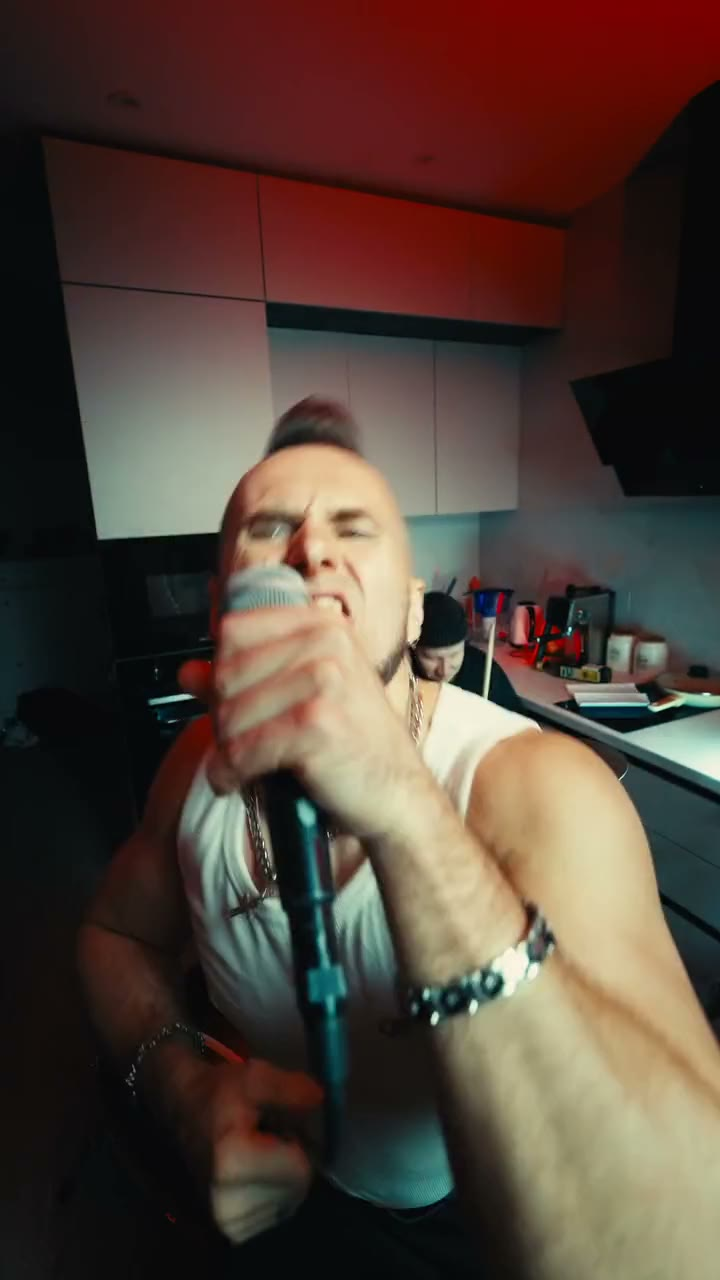
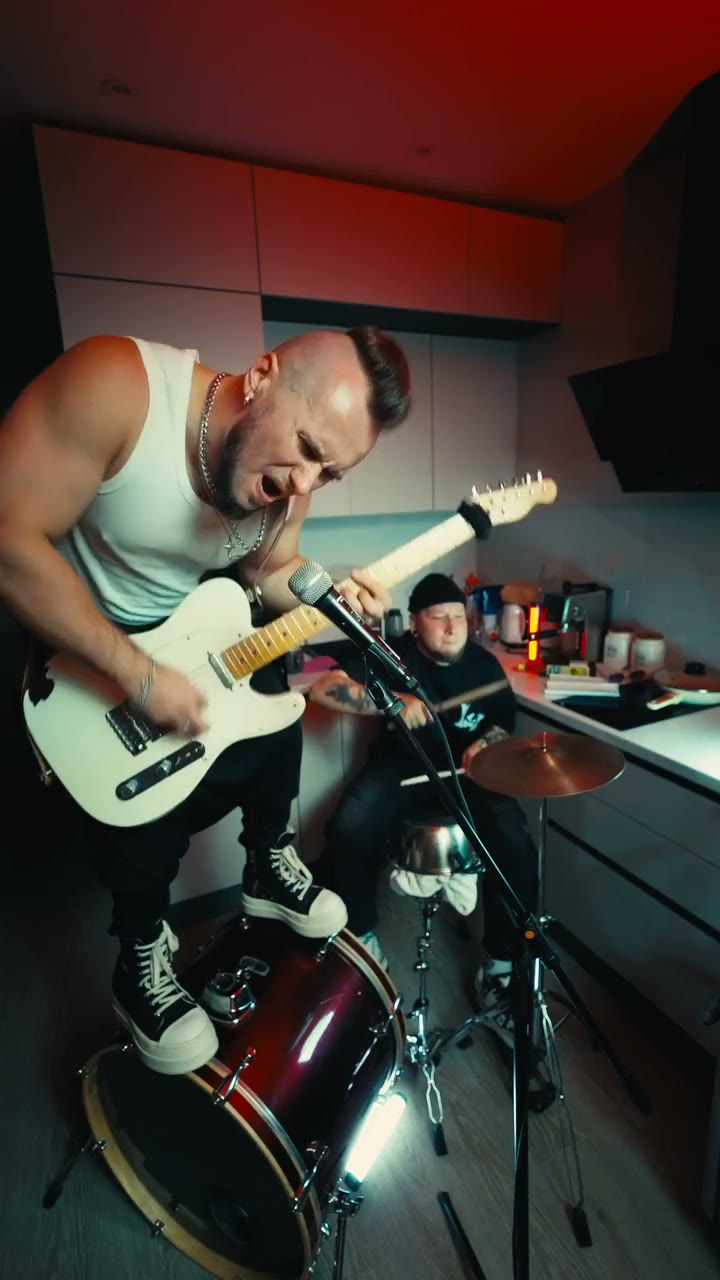
MAIN - updated video menu

diff --git a/main.js b/main.js
@@ -20,17 +20,21 @@ document.querySelectorAll('[data-scroll-to]').forEach((link) => {
   });
 });
 
-// Липкое меню: подсвечиваем раздел, который сейчас посередине экрана
+// Липкое меню: подсвечиваем раздел, который сейчас посередине экрана.
+// «Видео» (#reels) лежит внутри «Музыки» (#listen) — если посередине оба, горит тот, что правее в меню.
 if ('IntersectionObserver' in window) {
   const links = {};
   document.querySelectorAll('.nav__link').forEach((link) => {
     links[link.getAttribute('href').slice(1)] = link;
   });
+  const visible = new Set();
   const spy = new IntersectionObserver((entries) => {
     entries.forEach((entry) => {
-      const link = links[entry.target.id];
-      if (link) link.classList.toggle('is-active', entry.isIntersecting);
+      if (entry.isIntersecting) visible.add(entry.target.id);
+      else visible.delete(entry.target.id);
     });
+    const current = Object.keys(links).filter((id) => visible.has(id)).pop();
+    Object.keys(links).forEach((id) => links[id].classList.toggle('is-active', id === current));
   }, { rootMargin: '-50% 0px -50% 0px' });
   Object.keys(links).forEach((id) => {
     const section = document.getElementById(id);

diff --git a/index.html b/index.html
@@ -48,6 +48,7 @@
   <nav class="nav" aria-label="Разделы">
     <div class="nav__in">
       <a class="nav__link" href="#listen">Музыка</a>
+      <a class="nav__link" href="#reels">Видео</a>
       <a class="nav__link" href="#live">Live</a>
       <a class="nav__link" href="#diary">Дневник</a>
       <a class="nav__link" href="#about">Обо мне</a>
@@ -102,7 +103,7 @@
       </div>
 
       <!-- Видео к песням: вертикальные, как в телефоне. Новый ролик — ещё одна .reel в .reels__row -->
-      <div class="reels">
+      <div id="reels" class="reels">
         <div class="reels__head reveal">
           <h2 class="reels__title">Смотреть</h2>
           <p class="reels__sub">Короткие видео к песням — посмотри и слушай целиком на своём стриминге.</p>

diff --git a/style.css b/style.css
@@ -368,6 +368,7 @@ a:hover { color: var(--text); }
 .reels {
   display: flex; flex-direction: column; gap: 20px;
   padding-top: clamp(18px, 2.4vw, 32px);
+  scroll-margin-top: 24px;
 }
 .reels__head { display: flex; flex-direction: column; gap: 8px; }
 .reels__title {
@@ -387,7 +388,7 @@ a:hover { color: var(--text); }
   gap: 22px 12px;
 }
 .reel { margin: 0; min-width: 0; display: flex; flex-direction: column; gap: 10px; }
-.reel__cap { display: flex; flex-direction: column; gap: 2px; }
+.reel__cap { flex: 1; display: flex; flex-direction: column; gap: 2px; } /* кнопки роликов — на одной линии, даже если подпись в две строки */
 .reel__title {
   font-family: var(--cond);
   font-weight: 900;
